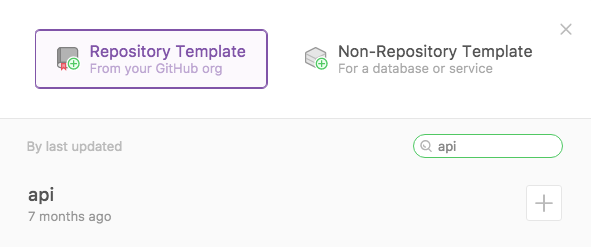
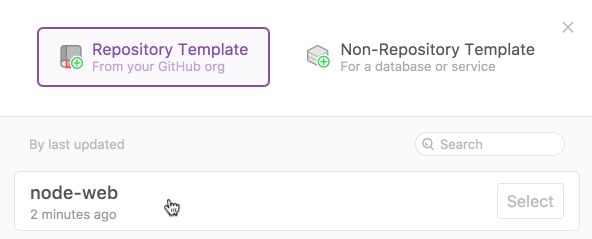
Add some pictures and update README.md

diff --git a/README.md b/README.md
@@ -22,10 +22,12 @@ This guide will help you setup Runnable templates for a simple Node.js web appli
 1. Choose your GitHub org.
 2. On the _Configure_ page, click on the __Create Template__ button.  
 ![node1](/images/node1.png)  
-3. Find the repository you would like to configure the template for. In this case, we are starting with a simple Python repository.  
+3. Find the repository you would like to configure the template for. In this case, we are starting with the `node-web` repository.  
 ![node2](/images/node2.png)  
 4. Choose the first option to use our simple setup guide.
+![node2](/images/node2a.png)  
 5. Give your template a name. This name will be used to generate the template URLs of all the containers that will launch from this template. Check out [this](http://https://runnable.zendesk.com/hc/en-us/articles/212802006) article for more details on URLs in Runnable.
+![node2](/images/node2b.png)  
 6. Next, you’ll be able to select your app’s Stack Type, Version and Branch for your template. Go ahead and choose Node.js for your stack type, and select the version you want to use. Make sure you choose the branch that corresponds to your team’s main integration branch (‘master’  or ‘develop’ for example).  
 ![node3](/images/node3.png)  
 6. On the next step, you can specify additional Packages, Build Commands, and the Container CMD. 
